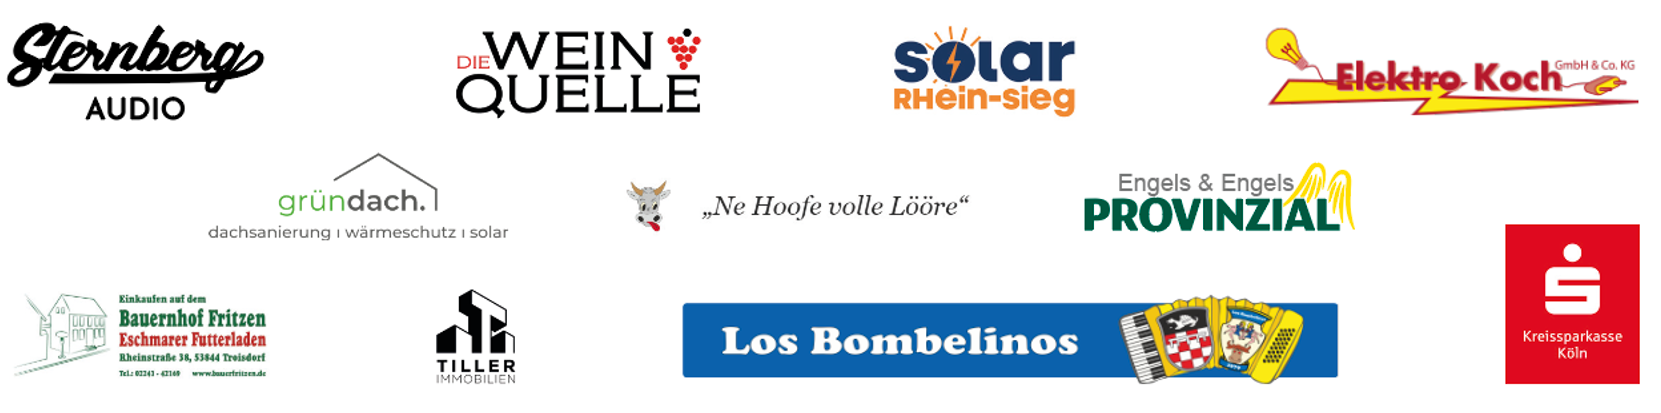
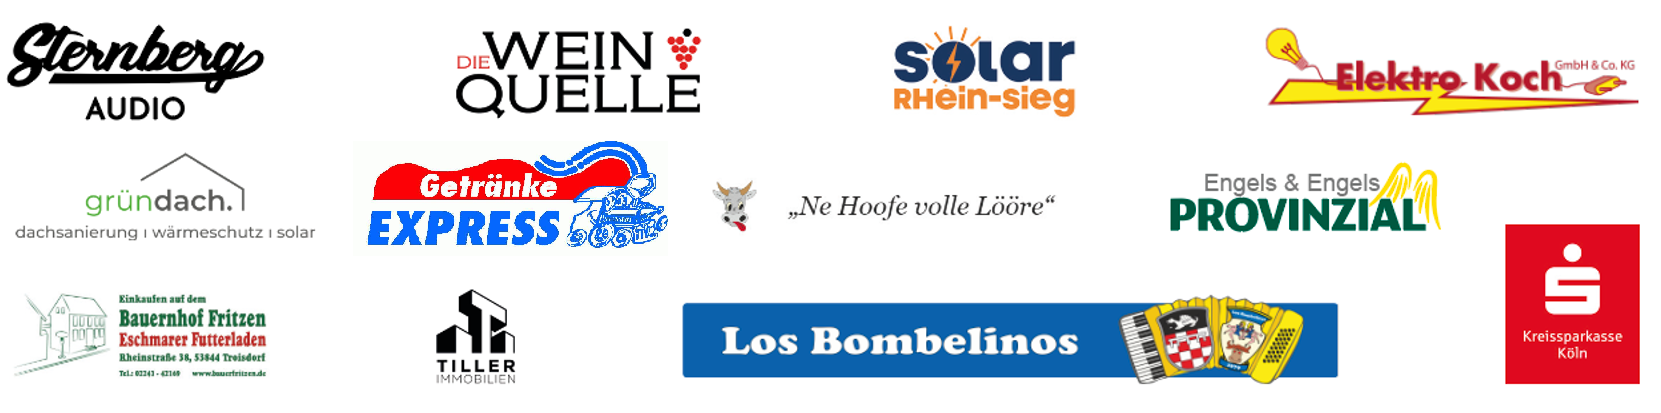
data Update

Changed region(s): [[0.0, 0.3487, 0.3992, 0.6102], [0.4299, 0.3777, 0.8904, 0.5811], [0.0921, 0.3777, 0.1228, 0.4068]]

diff --git a/src/data/footerLogos.js b/src/data/footerLogos.js
@@ -26,6 +26,11 @@ export default [
     "aspect": 1.5
   },
   {
+    "src": "./Logos/GetrankeExpress.jfif",
+    "alt": "Getränke Express",
+    "aspect":3.85
+  },
+  {
     "src": "./Logos/04Elektro Koch.png",
     "alt": "04Elektro Koch",
     "aspect": 4.19
